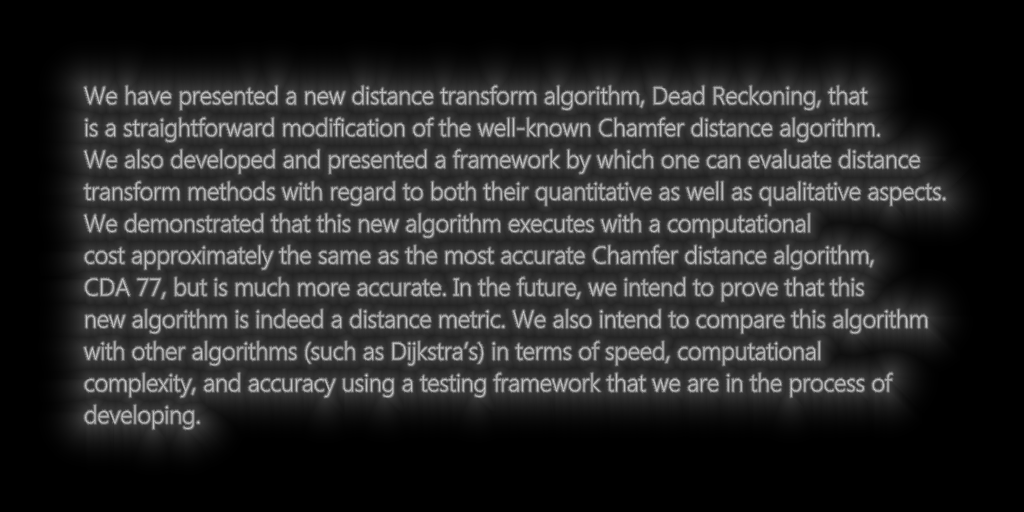
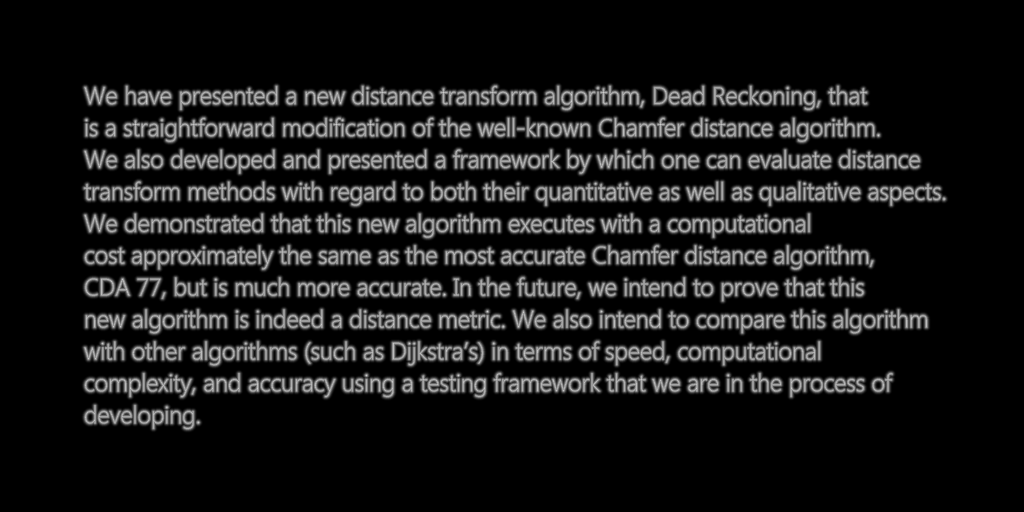
Fixed DR

diff --git a/font-import/src/main/java/ru/spacearena/engine/graphics/font/df/DeadReckoning.java b/font-import/src/main/java/ru/spacearena/engine/graphics/font/df/DeadReckoning.java
@@ -30,20 +30,27 @@ public class DeadReckoning {
         return v > 0.5f;
     }
 
-    public static void setPoint(Grid g, int x, int y, float d, int x1, int y1) {
-        final Point p = g.get(x1,y1);
-        if (g.getDistance(x,y) + d < p.d) {
-            p.set(g.getX(x,y), g.getY(x,y));
-            p.d = FloatMathUtils.length(x1-p.x,y1-p.y);
+    public static void compare(DistanceField g, int x, int y, int xNeighbor, int yNeighbor, float d) {
+        if (g.getDistance(xNeighbor, yNeighbor) + d < g.getDistance(x, y)) {
+            final int borderX = g.getBorderX(xNeighbor, yNeighbor), borderY = g.getBorderY(xNeighbor, yNeighbor);
+            g.set(x, y, borderX, borderY, FloatMathUtils.length(x - borderX, y - borderY));
         }
     }
 
-    public static Grid createGrid(BufferedImage image, float d1, float d2) {
+//    public static void setPoint(Grid g, int x, int y, float d, int x1, int y1) {
+//        final Point p = g.get(x1,y1);
+//        if (g.getDistance(x,y) + d < p.d) {
+//            p.set(g.getX(x,y), g.getY(x,y));
+//            p.d = FloatMathUtils.length(x1-p.x,y1-p.y);
+//    }
+
+    public static DistanceField computeDistanceField(BufferedImage image, float d1, float d2) {
 
         final int w = image.getWidth(), h = image.getHeight();
 
-        final Grid g = new Grid(w, h);
+        final DistanceField g = new DistanceField(w, h);
 
+        // initializing df
         for (int y=0; y<h; y++) {
             for (int x=0;x<w;x++) {
                 final boolean c = getPixel(image, x, y);
@@ -51,35 +58,36 @@ public class DeadReckoning {
                     c != getPixel(image, x, y-1) ||
                     c != getPixel(image, x+1, y) ||
                     c != getPixel(image, x, y+1)) {
-                    g.get(x, y).set(x, y, 0);
+                    g.set(x,y, x,y, 0);
+                } else {
+                    g.set(x,y, DistanceField.DEFAULT_BORDER, DistanceField.DEFAULT_BORDER, DistanceField.DEFAULT_DISTANCE);
                 }
             }
         }
 
         for (int y=0; y<h; y++) {
             for (int x=0;x<w;x++) {
-                setPoint(g, x - 1, y - 1, d2, x, y);
-                setPoint(g, x, y - 1, d1, x, y);
-                setPoint(g, x + 1, y - 1, d2, x, y);
-                setPoint(g, x - 1, y, d1, x, y);
+                compare(g, x, y, x - 1, y - 1, d2);
+                compare(g, x, y, x, y - 1, d1);
+                compare(g, x, y, x + 1, y - 1, d2);
+                compare(g, x, y, x - 1, y, d1);
             }
         }
 
         for (int y=h-1; y>=0; y--) {
             for (int x=w-1;x>=0;x--) {
-                setPoint(g, x + 1, y, d1, x, y);
-                setPoint(g, x - 1, y + 1, d2, x, y);
-                setPoint(g, x, y + 1, d1, x, y);
-                setPoint(g, x + 1, y + 1, d2, x, y);
+                compare(g, x, y, x + 1, y, d1);
+                compare(g, x, y, x - 1, y + 1, d2);
+                compare(g, x, y, x, y + 1, d1);
+                compare(g, x, y, x + 1, y + 1, d2);
             }
         }
 
         for (int y=0; y<h; y++) {
             for (int x=0;x<w;x++) {
                 final boolean c = getPixel(image, x, y);
-                final Point p = g.get(x,y);
                 if (!c) {
-                    p.d = -p.d;
+                    g.negateDistance(x,y);
                 }
             }
         }
@@ -102,13 +110,13 @@ public class DeadReckoning {
         private float offset;
         private float invScale;
 
-        public ManualMap(float scale, float offset) {
+        public ManualMap(float offset, float scale) {
             this.offset = offset;
             this.invScale = 1/scale;
         }
 
         public float mapDistance(float d) {
-            return offset + d * invScale;
+            return (d + offset) * invScale;
         }
     }
 
@@ -117,7 +125,7 @@ public class DeadReckoning {
 
         private float min = 0, max = 0;
 
-        public MixMap(Grid g) {
+        public MixMap(DistanceField g) {
             for (int y=0; y<g.getHeight(); y++) {
                 for (int x=0;x<g.getWidth(); x++) {
                     final float d = g.getDistance(x,y);
@@ -144,7 +152,7 @@ public class DeadReckoning {
             this.minMaxDistance = minMaxDistance;
         }
 
-        public float mapDistance(Grid grid, float d) {
+        public float mapDistance(DistanceField grid, float d) {
             float min = grid.getMinDistance(), max = grid.getMaxDistance();
             if (max < minMaxDistance) {
                 final float v = minMaxDistance - max;
@@ -164,7 +172,7 @@ public class DeadReckoning {
     public static class SpreadMap implements DistanceMap {
         private float spread;
 
-        public SpreadMap(Grid g, int scale) {
+        public SpreadMap(DistanceField g, int scale) {
             this.spread = (float)Math.min(g.getWidth(), g.getHeight()) / (1 << scale);
         }
 
@@ -175,7 +183,7 @@ public class DeadReckoning {
         }
     }
 
-    public static BufferedImage toImage(Grid g, DistanceMap map) {
+    public static BufferedImage toImage(DistanceField g, DistanceMap map) {
         final BufferedImage b = new BufferedImage(g.getWidth(), g.getHeight(), BufferedImage.TYPE_BYTE_GRAY);
         for (int y=0; y<g.getHeight(); y++) {
             for (int x=0;x<g.getWidth(); x++) {
@@ -201,8 +209,9 @@ public class DeadReckoning {
         final File file = new File("df-original-segoe.png");
         final BufferedImage i = ImageIO.read(file);
 
-        final Grid g = createGrid(i, 3,4);
-        final BufferedImage df = toImage(g, new MixMap(g));
+        final float d = 1;
+        final DistanceField g = computeDistanceField(i, d, FloatMathUtils.length(d,d));
+        final BufferedImage df = toImage(g, new ManualMap(16, 20));
         ImageIO.write(df, "png", new File("df-transform-segoe.png"));
 
         final BufferedImage sf = resizeTo(df, 1/4f);

diff --git a/font-import/src/main/java/ru/spacearena/engine/graphics/font/df/DistanceField.java b/font-import/src/main/java/ru/spacearena/engine/graphics/font/df/DistanceField.java
@@ -1,0 +1,77 @@
+package ru.spacearena.engine.graphics.font.df;
+
+/**
+ * @author Vyacheslav Mayorov
+ * @since 2014-08-04
+ */
+public class DistanceField {
+
+    public static final int DEFAULT_BORDER = -1;
+    public static final float DEFAULT_DISTANCE = Float.POSITIVE_INFINITY;
+
+    private final float[] distance;
+    private final int[] borderX;
+    private final int[] borderY;
+    private final int w, h;
+
+    public DistanceField(int w, int h) {
+        this.w = w;
+        this.h = h;
+
+        final int l = w * h;
+        this.distance = new float[l];
+        this.borderX = new int[l];
+        this.borderY = new int[l];
+    }
+
+    public int getWidth() {
+        return w;
+    }
+
+    public int getHeight() {
+        return h;
+    }
+
+    public boolean inRange(int x, int y) {
+        return x >= 0 && x < w && y >= 0 && y < h;
+    }
+
+    public int getIndex(int x, int y) {
+        return y * w + x;
+    }
+
+    public float getDistance(int x, int y) {
+        return inRange(x,y) ? distance[getIndex(x,y)] : DEFAULT_DISTANCE;
+    }
+
+    public int getBorderX(int x, int y) {
+        return inRange(x,y) ? borderX[getIndex(x,y)] : DEFAULT_BORDER;
+    }
+
+    public int getBorderY(int x, int y) {
+        return inRange(x,y) ? borderY[getIndex(x,y)] : DEFAULT_BORDER;
+    }
+
+    public void set(int x, int y, int borderX, int borderY, float distance) {
+        final int i = getIndex(x,y);
+        this.distance[i] = distance;
+        this.borderX[i] = borderX;
+        this.borderY[i] = borderY;
+    }
+
+    public void setDistance(int x, int y, float distance) {
+        this.distance[getIndex(x,y)] = distance;
+    }
+
+    public void setBorder(int x, int y, int borderX, int borderY) {
+        final int i = getIndex(x,y);
+        this.borderX[i] = borderX;
+        this.borderY[i] = borderY;
+    }
+
+    public void negateDistance(int x, int y) {
+        final int i = getIndex(x,y);
+        this.distance[i] = -this.distance[i];
+    }
+
+}

diff --git a/spacearena-core/src/main/java/ru/spacearena/game/GameFactory.java b/spacearena-core/src/main/java/ru/spacearena/game/GameFactory.java
@@ -80,9 +80,8 @@ public class GameFactory implements EngineFactory {
         //final Viewport hud = new Viewport(new Viewport.RealSizeAdjustStrategy());
         viewport.add(new Transform() {
             private float sizeV = 0f;
-            private final float minSize = 100f;
-            private final float maxSize = 500f;
-            private float size = minSize;
+            private final float maxSpeed = 500f;
+            private float size = 0;
 
             private final TextureDefinition td = new TextureDefinition(OpenGL.LINEAR, OpenGL.LINEAR);
 
@@ -96,14 +95,10 @@ public class GameFactory implements EngineFactory {
             @Override
             public boolean onUpdate(float seconds) {
                 sizeV += 100f * seconds;
-                size += sizeV * seconds;
-                if (size > maxSize) {
-                    size = maxSize;
-                    sizeV = -sizeV;
-                } else if (size < minSize) {
-                    size = minSize;
-                    sizeV = -sizeV;
+                if (FloatMathUtils.abs(sizeV) > maxSpeed) {
+                    sizeV = FloatMathUtils.copySign(maxSpeed, -sizeV);
                 }
+                size += sizeV * seconds;
                 rotate(FloatMathUtils.HALF_PI * seconds);
                 return true;
             }
